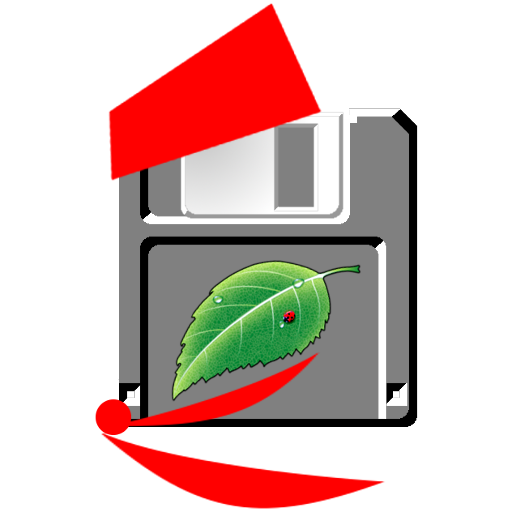
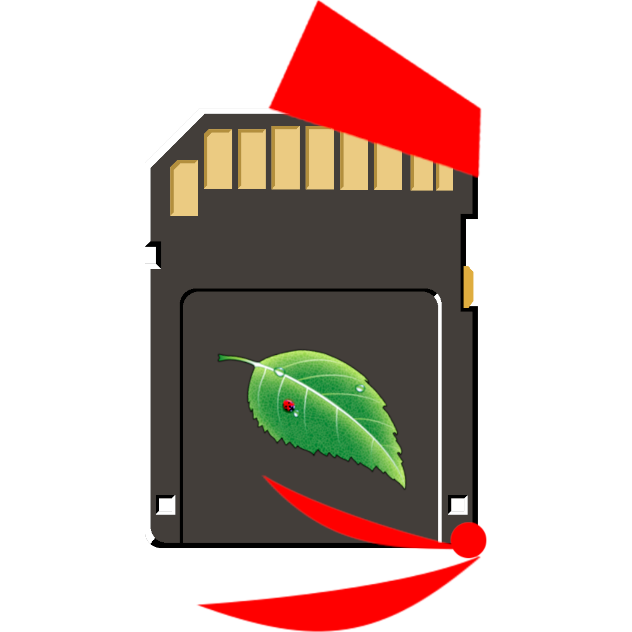
Косметические изменения
Новая иконка
На картинках в SAF-help изображен путь
Android/data/su.sovietgames.everlasting_summer/files
Рефакторинг loader+webview
Убрана отладочная покраска spacer-ов

diff --git a/gui/MainWebView.qml b/gui/MainWebView.qml
@@ -1,28 +1,23 @@
 import QtQuick 2.15
 import QtWebView 1.15
+import QtQuick.Layouts 1.15
 import QtQuick.Controls 2.15
 
-Item {
-    visible: false
-    property alias url: internalBrowser.url
 
-    ProgressBar {
-        id: internalBrowserProgressBar
-        visible: internalBrowser.loading
-
-        width: mainWindow.width
-        anchors.bottom: internalBrowser.top
-
-        from: 0
-        to: 100
-        value: internalBrowser.loadProgress
+Rectangle {
+    anchors {
+        bottom: parent.bottom
+        left: parent.left
+        right: parent.right
     }
+    height: parent.height - mainAppTitle.height + mainAppTitle.radius
+    visible: false
 
-    WebView {
-        id: internalBrowser
-        width: mainWindow.width
-        height: mainWindow.height - mainAppTitle.height - (internalBrowserProgressBar.visible ? internalBrowserProgressBar.height : 0)
-        anchors.bottom: parent.bottom
+    function getUrl() {
+        if (browserLoader.item)
+            return browserLoader.item.url
+
+        return ""
     }
 
     function hide() {
@@ -36,11 +31,45 @@ Item {
     }
 
     function show(url_for_show) {
-        internalBrowser.url = url_for_show
+        if (!browserLoader.item)
+            browserLoader.sourceComponent = browserWithProgressBar
+
+        browserLoader.item.url = url_for_show
         mainWindow.hideAllPanels()
         mainLists.enabled = false
         visible = true
         mainAppTitle.closeButton.state = "CLOSE"
         return true
+    }
+
+    Loader {
+        id: browserLoader
+        anchors.fill: parent
+    }
+
+    Component {
+        id: browserWithProgressBar
+
+        ColumnLayout {
+            spacing: 0
+            anchors.fill: parent
+
+            property alias url: internalBrowser.url
+
+            ProgressBar {
+                Layout.fillWidth: true
+                visible: internalBrowser.loading
+                from: 0
+                to: 100
+                value: internalBrowser.loadProgress
+            }
+
+            WebView {
+                id: internalBrowser
+                Layout.fillWidth: true
+                Layout.fillHeight: true
+                visible: true
+            }
+        }
     }
 }

diff --git a/gui/main.qml b/gui/main.qml
@@ -45,37 +45,8 @@ ApplicationWindow {
         id: mainTracebackPanel
     }
 
-    Loader {
+    MainWebView {
         id: mainWebView
-        anchors.bottom: parent.bottom
-
-        function isVisible() {
-            if (item)
-                return item.visible
-            else
-                return false
-        }
-
-        function getUrl() {
-            if (item)
-                return item.url
-            else
-                return ""
-        }
-
-        function hide() {
-            if (!item)
-                source = "MainWebView.qml"
-
-            return item.hide()
-        }
-
-        function show(url_for_show) {
-            if (!item)
-                source = "MainWebView.qml"
-
-            return item.show(url_for_show)
-        }
     }
 
     MainLikePanel {

diff --git a/gui/DelegateTitleText.qml b/gui/DelegateTitleText.qml
@@ -21,7 +21,7 @@ Item {
             // spacer item
             Layout.fillWidth: true
             Layout.fillHeight: true
-            Rectangle { anchors.fill: parent; color: "#ffaaaa" } // to visualize the spacer
+            // Rectangle { anchors.fill: parent; color: "#ffaaaa" } // to visualize the spacer
         }
 
         Text {
@@ -54,7 +54,7 @@ Item {
             // spacer item
             Layout.fillWidth: true
             Layout.fillHeight: true
-            Rectangle { anchors.fill: parent; color: "#ffaaaa" } // to visualize the spacer
+            // Rectangle { anchors.fill: parent; color: "#ffaaaa" } // to visualize the spacer
         }
     }
 }

diff --git a/gui/MainAppTitle.qml b/gui/MainAppTitle.qml
@@ -81,7 +81,7 @@ Rectangle {
         MMImage {
             id: externalLinkButton
             source: "/icons/external-link.png"
-            visible: mainWebView.isVisible() && !mainWebView.getUrl().toString().startsWith("file:/")
+            visible: mainWebView.visible && !mainWebView.getUrl().toString().startsWith("file:/")
             mmwidth: 6
             mmheight: 6
 
